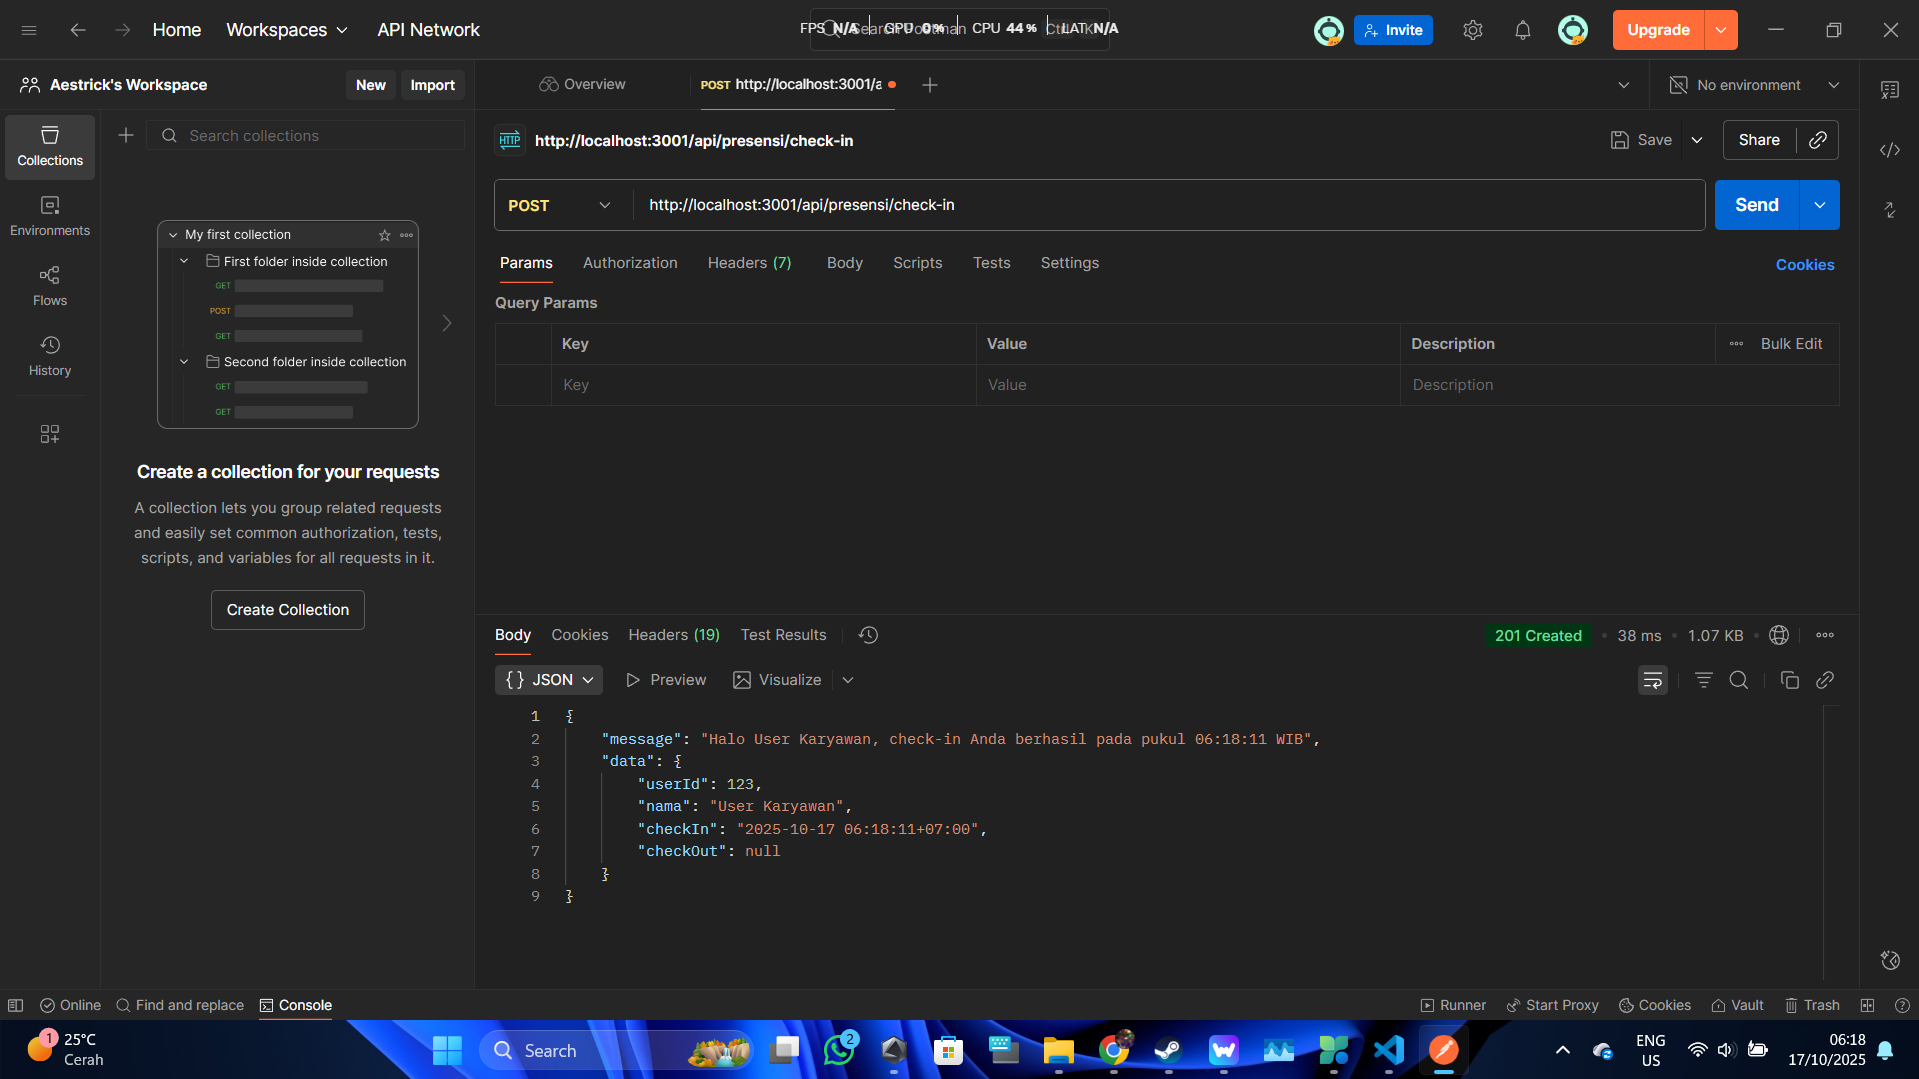
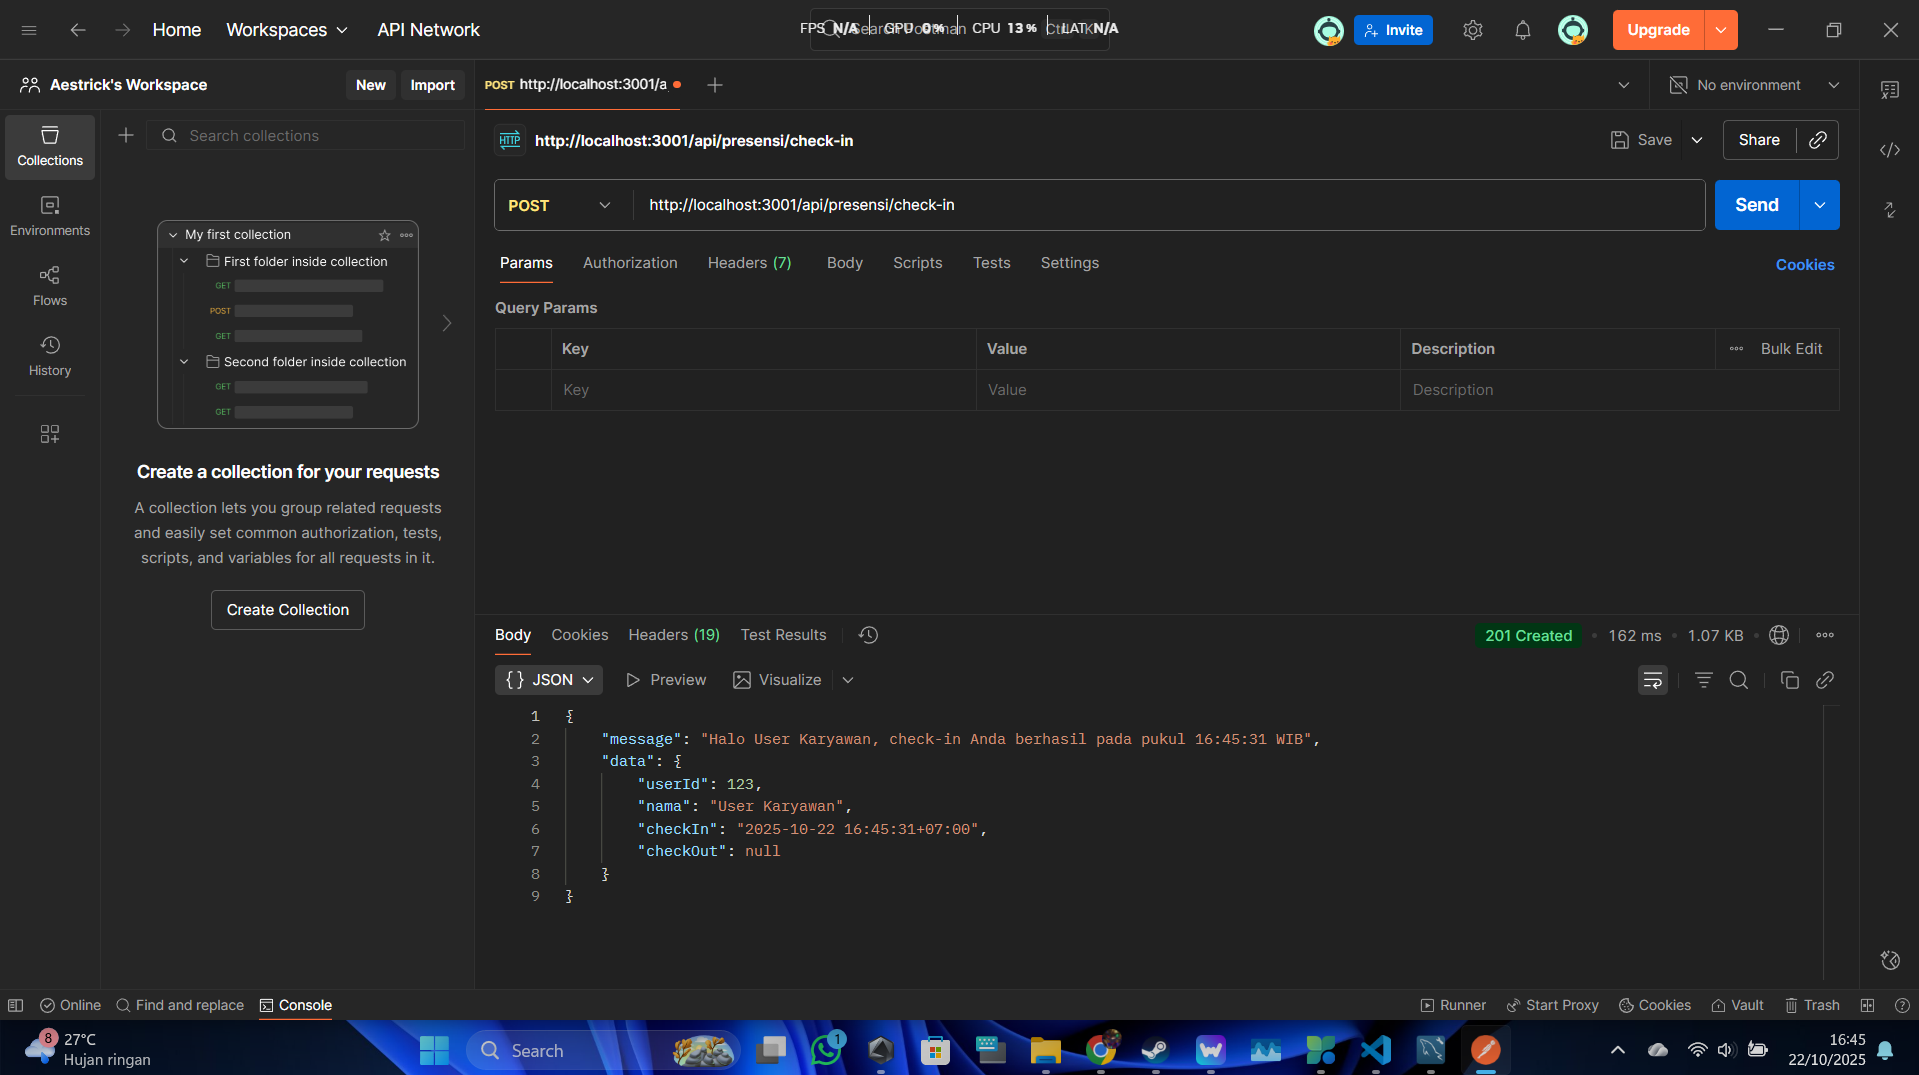
docs: add final report Tugas4.md with screenshots

diff --git a/Tugas4.md b/Tugas4.md
@@ -1,0 +1,47 @@
+# Laporan Tugas Praktikum 4: Koneksi Database Sequelize
+
+Berikut adalah hasil pengujian endpoint API Presensi setelah dihubungkan ke database MySQL menggunakan Sequelize.
+
+### 1. Endpoint Presensi Check-in
+Tes pertama adalah melakukan check-in. Server merespon dengan status `201 Created` dan mengembalikan data presensi yang baru saja dibuat di database.
+
+![Hasil Check-in Berhasil](./ss/check-in-berhasil.png)
+
+### 2. Endpoint Presensi Check-out
+Tes kedua adalah melakukan check-out. Server menemukan data check-in yang aktif, mengisikan waktu check-out, dan merespon dengan status `200 OK`.
+
+![Hasil Check-out Berhasil](./ss/check-out-berhasil.png)
+
+### 3. Endpoint Laporan Harian (Sebagai Admin)
+Tes ketiga adalah mengakses laporan harian. Setelah role diubah menjadi 'admin' di middleware, server merespon dengan status `200 OK` dan mengembalikan semua data dari tabel `Presensis`.
+
+![Hasil Laporan Harian Berhasil](./ss/laporan-berhasil-admin.png)
+
+---
+
+## Skenario Error Handling
+
+Berikut adalah pengujian untuk skenario-skenario gagal:
+
+#### Check-in Gagal (Duplikat)
+Mencoba check-in untuk kedua kalinya tanpa me-restart server. Sesuai logika, server menolak dengan status `400 Bad Request`.
+
+![Check-in Gagal Duplikat](./ss/check-in-gagal-duplikat.png)
+
+#### Check-out Gagal (Belum Check-in)
+Mencoba check-out setelah berhasil check-out (sehingga tidak ada data aktif). Sesuai logika, server merespon dengan status `404 Not Found`.
+
+![Check-out Gagal Belum Check-in](./ss/check-out-gagal-belum-checkin.png)
+
+#### Laporan Gagal (Sebagai Karyawan)
+Mencoba mengakses laporan dengan role default 'karyawan'. Middleware `isAdmin` berhasil memblokir akses dengan status `403 Forbidden`.
+
+![Laporan Gagal Forbidden](./ss/laporan-gagal-forbidden.png)
+
+---
+
+### 4. Tampilan Database Setelah Presensi
+Berikut adalah bukti bahwa data benar-benar tersimpan secara permanen di database MySQL (diambil dari MySQL Workbench).
+
+*(Jangan lupa ambil screenshot tabel `Presensis` dari MySQL Workbench dan letakkan di sini)*
+![Tampilan Database](./ss/database-setelah-presensi.png)
